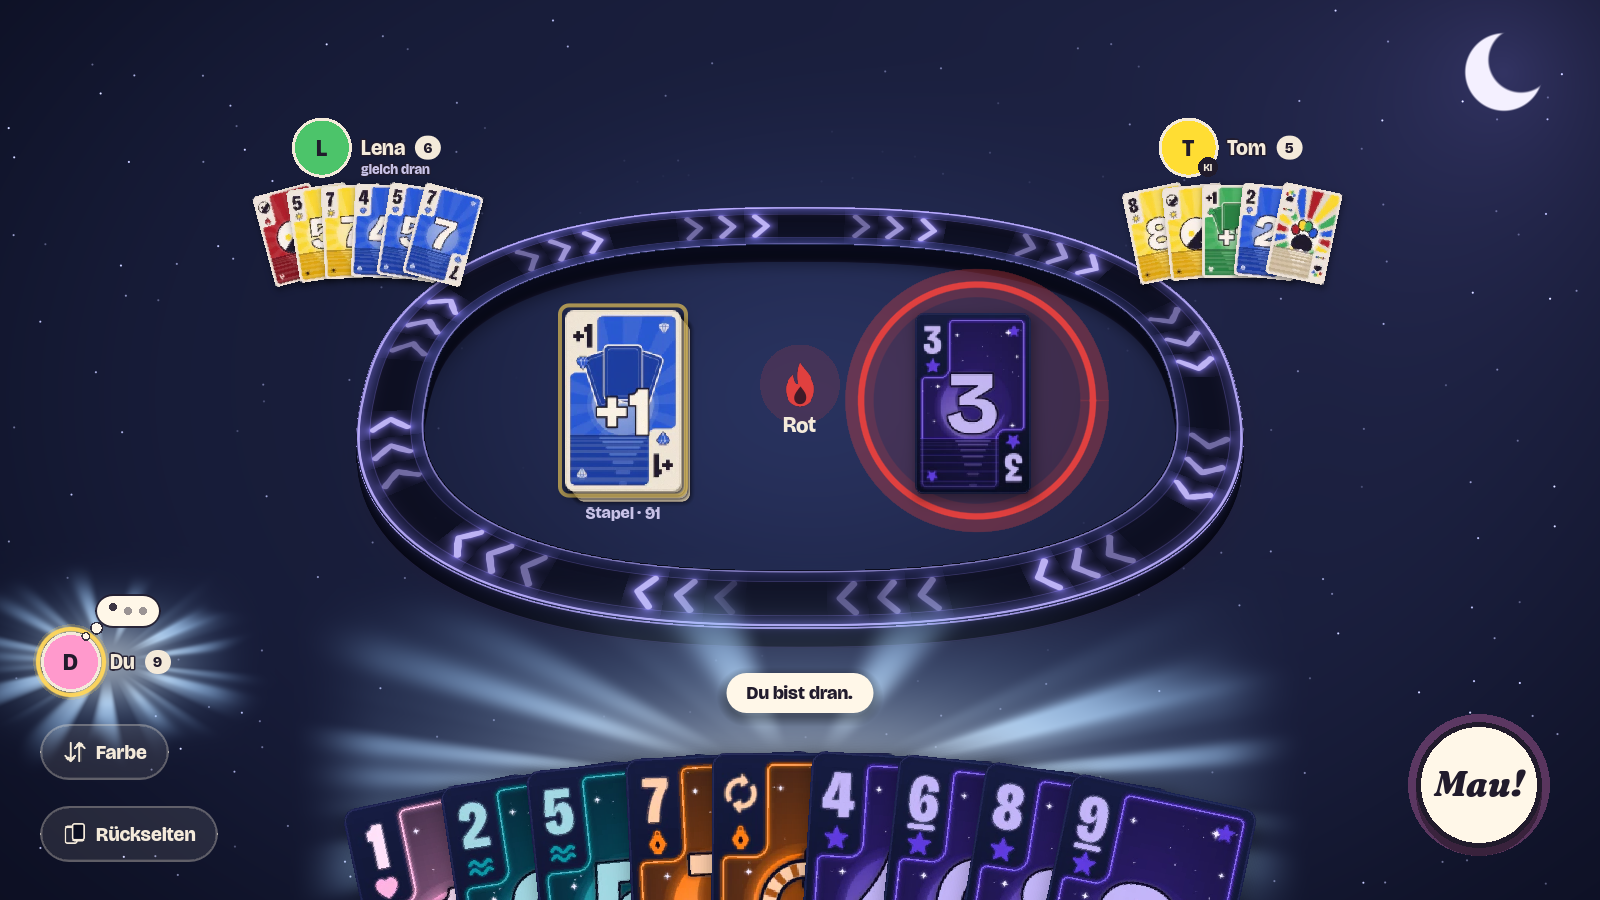
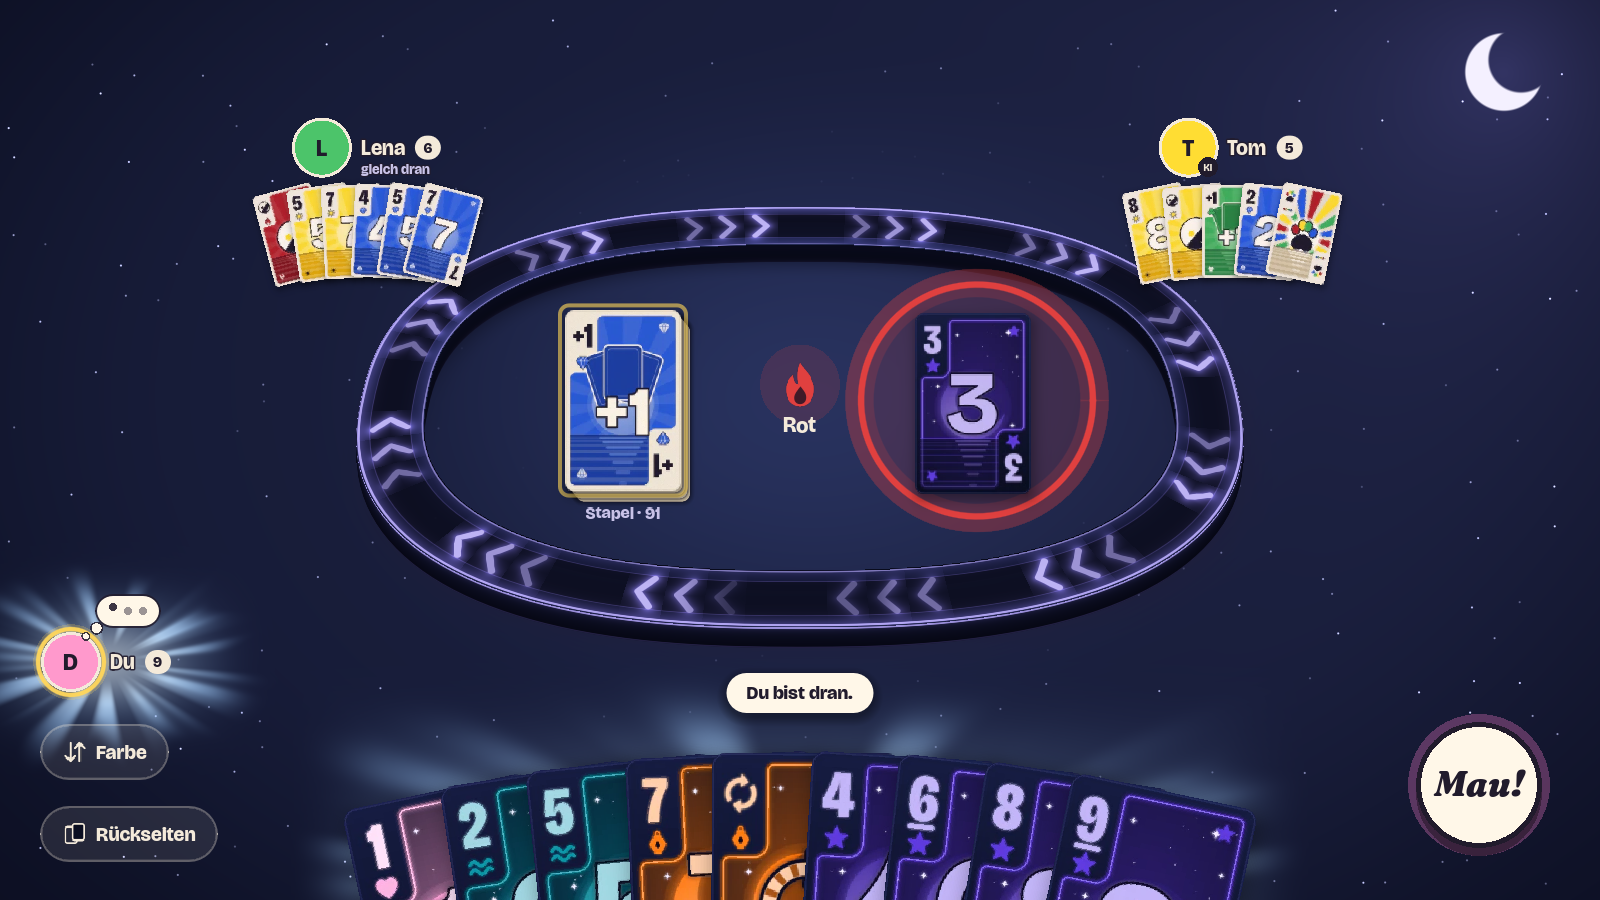
Beta 0.1.5 (Kandidat für 1.0): Schein hinter der Hand fest und tiefer im Kartenfeld

Changed region(s): [[0.1875, 0.6533, 0.8125, 0.9022], [0.2188, 0.9956, 0.25, 1.0]]

diff --git a/webclient/app.js b/webclient/app.js
@@ -5,7 +5,7 @@
 (function (M) {
   'use strict';
 
-  const VERSION = '0.1.4';
+  const VERSION = '0.1.5';
   const PROTO = 1;
   // wach.mp4 (32×32, 2 s, H.264 Baseline, ohne Ton; erzeugt mit ffmpeg) als data:-URI
[1 lines of base64/hex data omitted]

diff --git a/AGENTS.md b/AGENTS.md
@@ -58,7 +58,7 @@ Tempo-Regler der Computergegner, vier Tauschrichtungen, „Farbe mit ablegen“ 
 
 Schein von hinten für den Spieler am Zug (ohne Kasten/Rand, erst nach dem Austeilen, Namen mit Kontur in der Gegenfarbe), Denkblase nach 5 s, eigene Kartenzahl, Flip-Überraschung (Hausregel), neue „Familie“ mit allen Zusatzkarten (alte Familie wird automatisch angehoben), Partiestart wie „Nächste Runde“, sanfte Strahlen am Rundenende, „?“ löst kein „Mau!“ mehr aus, Browser: Mond, Startbild, Rahmen statt „Bitte quer halten“. Gerätetest wurde wegen der Kranz-Korrektur abgebrochen; Kontrollbilder `docs/module/optik_014_*.png`.
 
-## Offen für 0.1.5
+## Offen für 0.1.6 (nach dem Release 1.0)
 
 - **Ablage durchsehen** (Nutzerwunsch 06.10.2026, „damit Streitfragen aus dem Weg geräumt werden“): Tipp auf den Ablagestapel schiebt die oberste Karte zur Seite, Karte für Karte; Tipp auf den Seitenstapel schiebt eine zurück; Tipp irgendwo sonst schiebt alle zurück. Vorschlag: an jeder Karte steht, wer sie gelegt hat (und bei Jokern die gewünschte Farbe); Zähler „3 von 27“; legt jemand eine Karte, springt alles zurück. Gezeigt wird die Ablage, wie sie liegt (seit dem letzten Mischen; nach einem Flip gewendet). Verdeckte Glücksspiel-Einsätze unter der Ablage nur als Rückseite. App und Browser; die Sicht braucht dafür die öffentliche Ablage-Liste (kein Leck: die Ablage ist offen).
 

diff --git a/docs/release_notes/0.1.5.md b/docs/release_notes/0.1.5.md
@@ -1,0 +1,10 @@
+**Mau-Mau Flip 0.1.5 (Beta)** – Feinschliff vor der ersten regulären Version 1.0.
+
+## Verbessert
+
+- Der Schein hinter deiner Hand sitzt jetzt fest und gleichmäßig hinter dem Kartenfeld. Er wandert weder beim Austeilen noch beim Ausspielen mit.
+
+## Hinweise
+
+- Diese Version ist der Kandidat für 1.0. Rückmeldungen gern über die Issues.
+- Update direkt in der App: Einstellungen → Updates → „Jetzt prüfen“.
